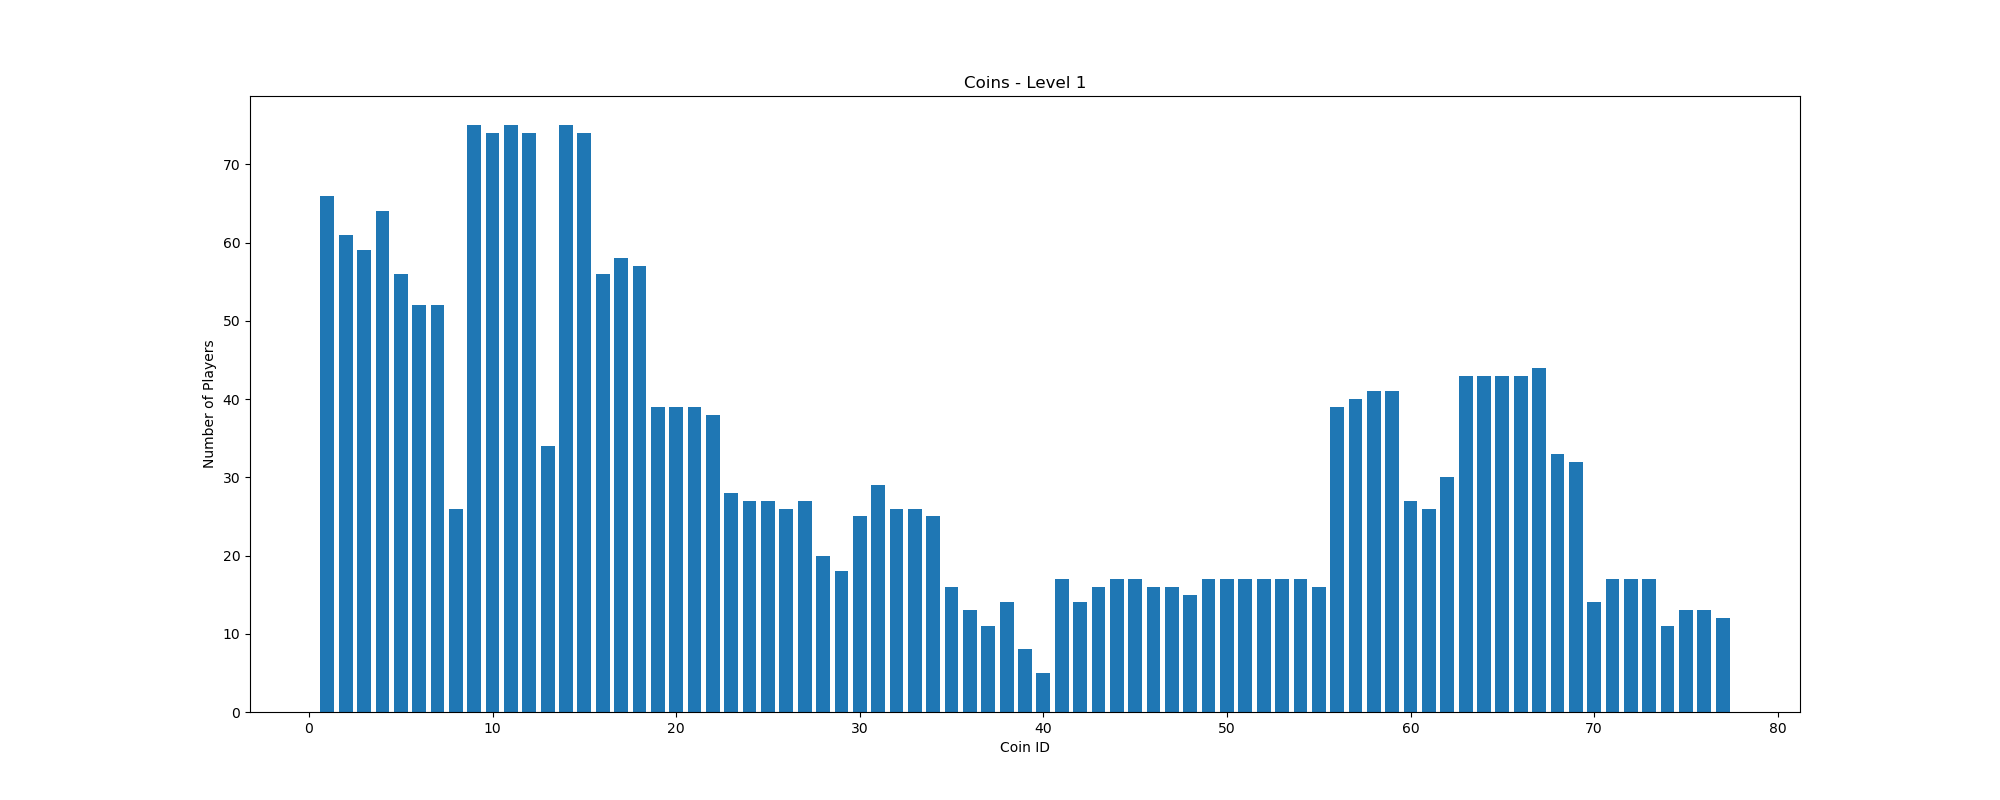
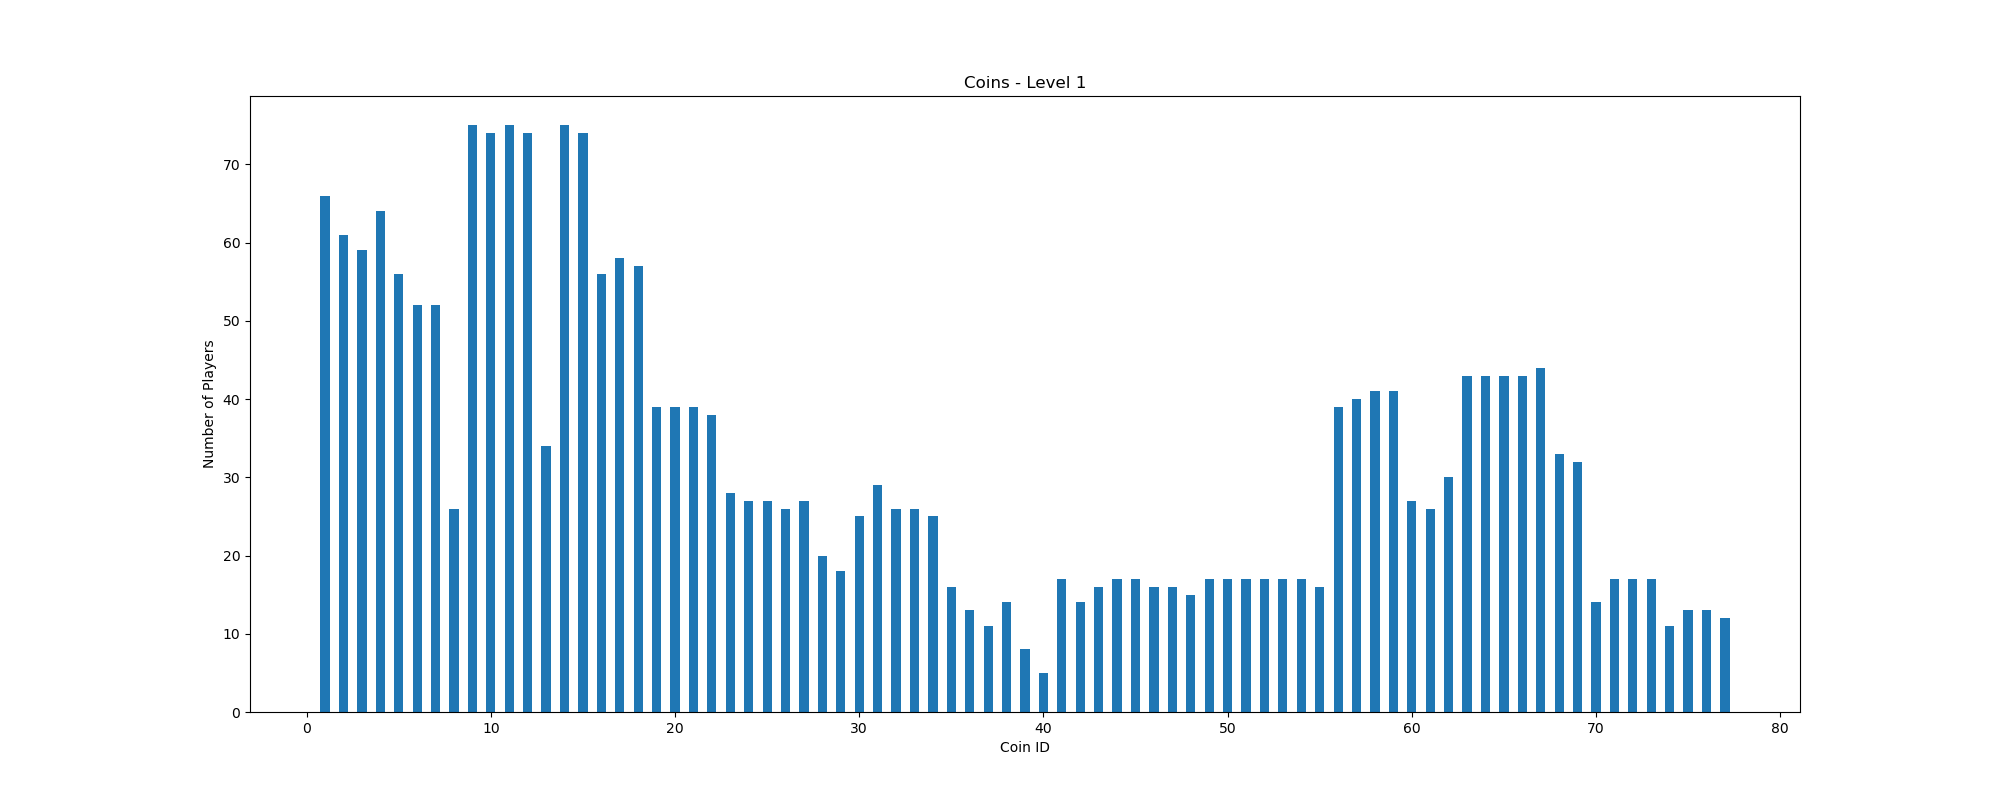
Code refactoring

Changed region(s): [[0.155, 0.1562, 0.868, 0.9062]]

diff --git a/data-analysis/analyse-elements.py b/data-analysis/analyse-elements.py
@@ -33,7 +33,7 @@ def plot(df, elem_col, num_elems, plot_title, x_label):
         plot_bins.append(i)
 
     fig, ax = plt.subplots(figsize =(20, 8))
-    ax.hist(np.array(elements), bins = plot_bins, rwidth=0.75, align='left')
+    ax.hist(np.array(elements), bins = plot_bins, rwidth=0.5, align='left')
     ax.set_title(plot_title)
     ax.set_xlabel(x_label)
     ax.set_ylabel('Number of Players')
@@ -51,58 +51,69 @@ def createPersonality(df):
 
     return Personality(extraversion, aggreableness, conscientiousness, neuroticism, openness)
 
+def pearsonrPersonality(personality, data):
+    corrE_P, _ = pearsonr(personality.extraversion, data)
+    corrA_P, _ = pearsonr(personality.aggreableness, data)
+    corrC_P, _ = pearsonr(personality.conscientiousness, data)
+    corrN_P, _ = pearsonr(personality.neuroticism, data)
+    corrO_P, _ = pearsonr(personality.openness, data)
+
+    return (corrE_P, corrA_P, corrC_P, corrN_P, corrO_P) if corrE_P >= 0.5 or corrA_P >= 0.5 or corrC_P >= 0.5 or corrN_P >= 0.5 or corrO_P >= 0.5 else (None, None, None, None, None)
+
+def spearmanrPersonality(personality, data):
+    corrE_P, _ = spearmanr(personality.extraversion, data)
+    corrA_P, _ = spearmanr(personality.aggreableness, data)
+    corrC_P, _ = spearmanr(personality.conscientiousness, data)
+    corrN_P, _ = spearmanr(personality.neuroticism, data)
+    corrO_P, _ = spearmanr(personality.openness, data)
+
+    return (corrE_P, corrA_P, corrC_P, corrN_P, corrO_P) if corrE_P >= 0.5 or corrA_P >= 0.5 or corrC_P >= 0.5 or corrN_P >= 0.5 or corrO_P >= 0.5 else (None, None, None, None, None)
+    
+def kendalltauPersonality(personality, data):
+    corrE_P, _ = kendalltau(personality.extraversion, data)
+    corrA_P, _ = kendalltau(personality.aggreableness, data)
+    corrC_P, _ = kendalltau(personality.conscientiousness, data)
+    corrN_P, _ = kendalltau(personality.neuroticism, data)
+    corrO_P, _ = kendalltau(personality.openness, data)
+
+    return (corrE_P, corrA_P, corrC_P, corrN_P, corrO_P) if corrE_P >= 0.5 or corrA_P >= 0.5 or corrC_P >= 0.5 or corrN_P >= 0.5 or corrO_P >= 0.5 else (None, None, None, None, None)
+
 def correlateElementsAndTraits(df, Level, elem_col, noElems, personality):
     elements = []
     for i in range(0, noElems):
         elements.append([])
 
     frame = pd.DataFrame(df, columns=[elem_col]).values
+
+    people = []
+
     for elem in frame:
         elems = literal_eval(elem[0])
         for j in range(0, noElems):
             elements[j].append(1 if (j in elems) else 0)
+        people.append(len(elems) / noElems)
 
     for i in range(0, noElems):
-        corrE_P, _ = pearsonr(personality.extraversion, elements[i])
-        corrA_P, _ = pearsonr(personality.aggreableness, elements[i])
-        corrC_P, _ = pearsonr(personality.conscientiousness, elements[i])
-        corrN_P, _ = pearsonr(personality.neuroticism, elements[i])
-        corrO_P, _ = pearsonr(personality.openness, elements[i])
-
-        if corrE_P >= 0.5 or corrA_P >= 0.5 or corrC_P >= 0.5 or corrN_P >= 0.5 or corrO_P >= 0.5:
+        corrE_P, corrA_P, corrC_P, corrN_P, corrO_P = pearsonrPersonality(personality, elements[i])
+        
+        if corrE_P != None:
             print("PEARSONR: Level-{} {}-{}: {}; {}; {}; {}; {}".format(Level, elem_col, i, corrE_P, corrA_P, corrC_P, corrN_P, corrO_P))
 
-        corrE_S, _ = spearmanr(personality.extraversion, elements[i])
-        corrA_S, _ = spearmanr(personality.aggreableness, elements[i])
-        corrC_S, _ = spearmanr(personality.conscientiousness, elements[i])
-        corrN_S, _ = spearmanr(personality.neuroticism, elements[i])
-        corrO_S, _ = spearmanr(personality.openness, elements[i])
+        corrE_S, corrA_S, corrC_S, corrN_S, corrO_S = spearmanrPersonality(personality, elements[i])
 
-        if corrE_S >= 0.5 or corrA_S >= 0.5 or corrC_S >= 0.5 or corrN_S >= 0.5 or corrO_S >= 0.5:
-            print("SPEARMAN: Level-{} {}-{}: {}; {}; {}; {}; {}".format(Level, elem_col, i, corrE_S, corrA_S, corrC_S, corrN_S, corrO_S))
+        if corrE_S != None:
+            print("SPEARMANR: Level-{} {}-{}: {}; {}; {}; {}; {}".format(Level, elem_col, i, corrE_S, corrA_S, corrC_S, corrN_S, corrO_S))
 
-        corrE_K, _ = kendalltau(personality.extraversion, elements[i])
-        corrA_K, _ = kendalltau(personality.aggreableness, elements[i])
-        corrC_K, _ = kendalltau(personality.conscientiousness, elements[i])
-        corrN_K, _ = kendalltau(personality.neuroticism, elements[i])
-        corrO_K, _ = kendalltau(personality.openness, elements[i])
-
-        if corrE_K >= 0.5 or corrA_K >= 0.5 or corrC_K >= 0.5 or corrN_K >= 0.5 or corrO_K >= 0.5:
-            print("SPEARMAN: Level-{} {}-{}: {}; {}; {}; {}; {}".format(Level, elem_col, i, corrE_K, corrA_K, corrC_K, corrN_K, corrO_K))
+        corrE_K, corrA_K, corrC_K, corrN_K, corrO_K = kendalltauPersonality(personality, elements[i])
+        
+        if corrE_K != None:
+            print("KENDALLTAU: Level-{} {}-{}: {}; {}; {}; {}; {}".format(Level, elem_col, i, corrE_K, corrA_K, corrC_K, corrN_K, corrO_K))
 
 demographics = pd.read_excel(r'First Prototype.xlsx', sheet_name='Demographics').drop_duplicates(['GUID'], keep='last')
 
 for Level in range(1, 13):
     level_data = pd.read_excel(r'First Prototype.xlsx', sheet_name='Level_{}'.format(Level)).drop_duplicates(['GUID'], keep='last')
     df = demographics.merge(level_data)
-
-    if Level == 3:
-        it = 0
-        for elem in pd.DataFrame(df, columns=['collectedCoins']).values:
-            for e in literal_eval(elem[0]):
-                if e == 1:
-                    it += 1
-        print('{} - {} - {}'.format(len(pd.DataFrame(df, columns=['collectedCoins']).values), it, CoinsPerLevel[Level - 1]))
 
     p = createPersonality(df) # Personality Traits
  
@@ -112,9 +123,12 @@ for Level in range(1, 13):
 
     if PowerupsPerLevel[Level - 1] != 0:
         plot(df, 'collectedPowerups', PowerupsPerLevel[Level - 1], 'Powerups - Level {}'.format(Level), 'Powerup ID')
-        
+        correlateElementsAndTraits(df, Level, 'collectedPowerups', PowerupsPerLevel[Level - 1], p)
+
+
     if EnemiesPerLevel[Level - 1] != 0:
         plot(df, 'killedEnemies', EnemiesPerLevel[Level - 1], 'Enemies - Level {}'.format(Level), 'Enemy ID')
+        correlateElementsAndTraits(df, Level, 'killedEnemies', EnemiesPerLevel[Level - 1], p)
 
 # Show plot
 # plt.show()
